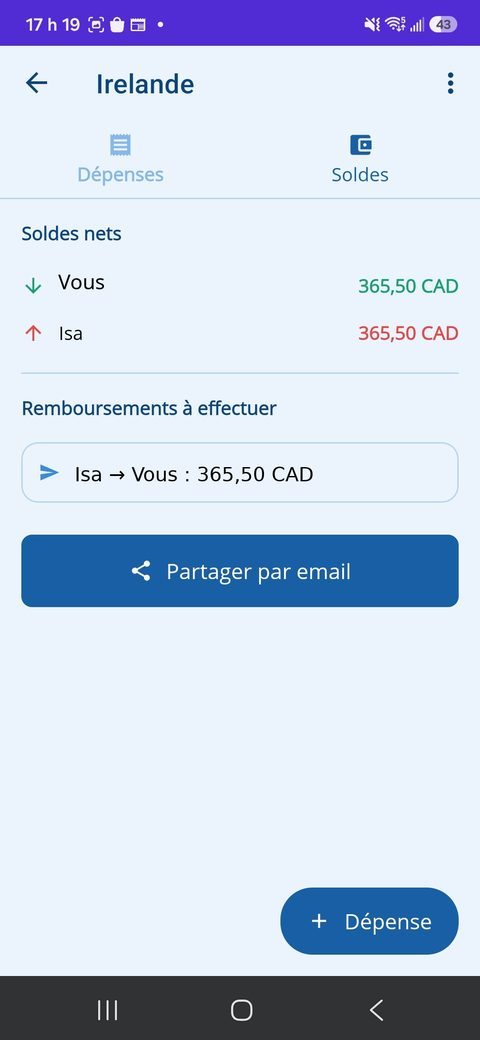
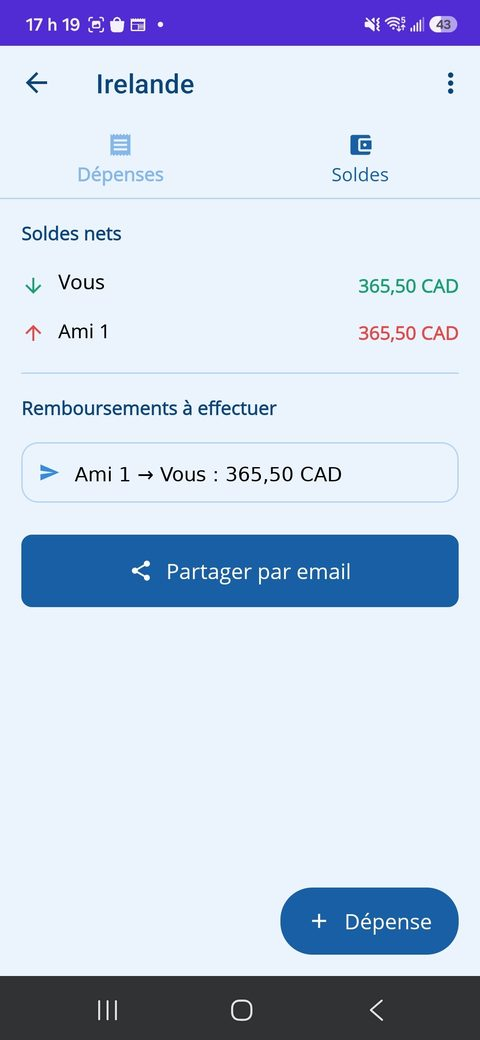
Fix cropped screenshots and use fake member names
The screenshot frames used an aspect-ratio that didn't match the
actual screenshots, cropping off the bottom of each phone image.
Also replace the remaining real friend names (Isa, Nathan) in the
screenshots with generic placeholders (Ami 1, Ami 2).

Changed region(s): [[0.1562, 0.4308, 0.7188, 0.4615], [0.125, 0.3077, 0.2188, 0.3385]]

diff --git a/assets/css/style.css b/assets/css/style.css
@@ -377,7 +377,7 @@ footer nav a {
 }
 
 .shot .screen {
-  aspect-ratio: 9 / 17;
+  aspect-ratio: 6 / 13;
   background: #ebf4fc;
   border-radius: 10px;
   overflow: hidden;
@@ -386,8 +386,7 @@ footer nav a {
 .shot .screen img {
   width: 100%;
   height: 100%;
-  object-fit: cover;
-  object-position: top;
+  object-fit: contain;
   display: block;
 }
 
